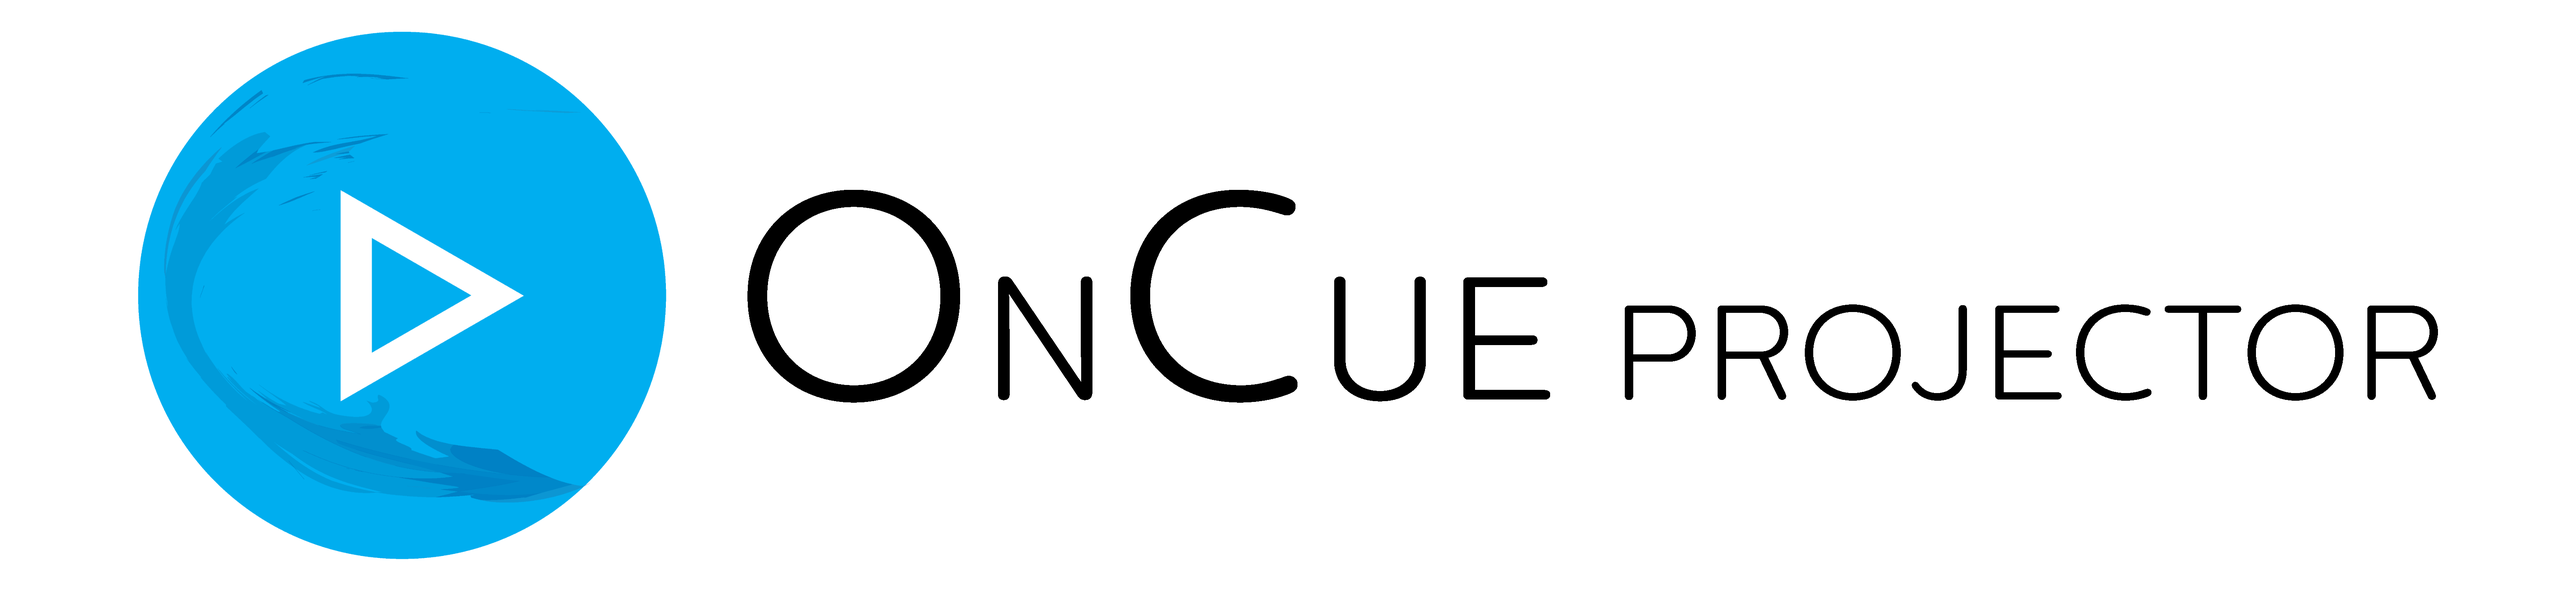
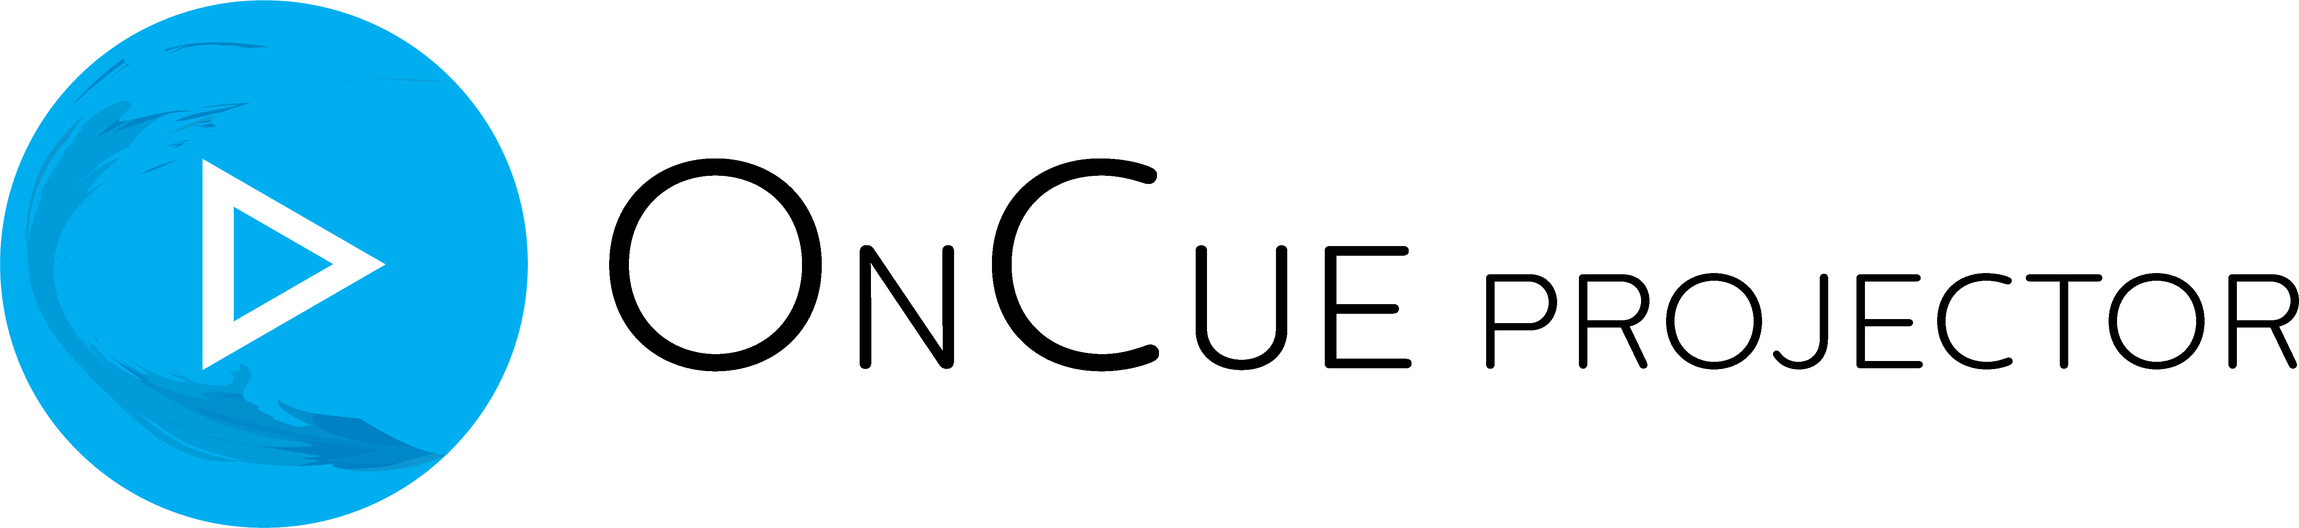
Update README.md

Changed region(s): [[0.0, 0.0, 1.0, 1.0]]

diff --git a/README.md b/README.md
@@ -1,5 +1,5 @@
 # OnCue Projector by [featherbear](http://featherbear.navhaxs.au.eu.org)
-<img src="/documentation/graphics/banner.png" height="80"/>
+<a href="http://featherbear.navhaxs.au.eu.org"><img src="/documentation/graphics/banner.png" height="160"/></a>
 OnCue Projector is an easy to use multimedia presentation wrapper to facilitate the seamless playback of sequential content  
 
 ## Downloads
